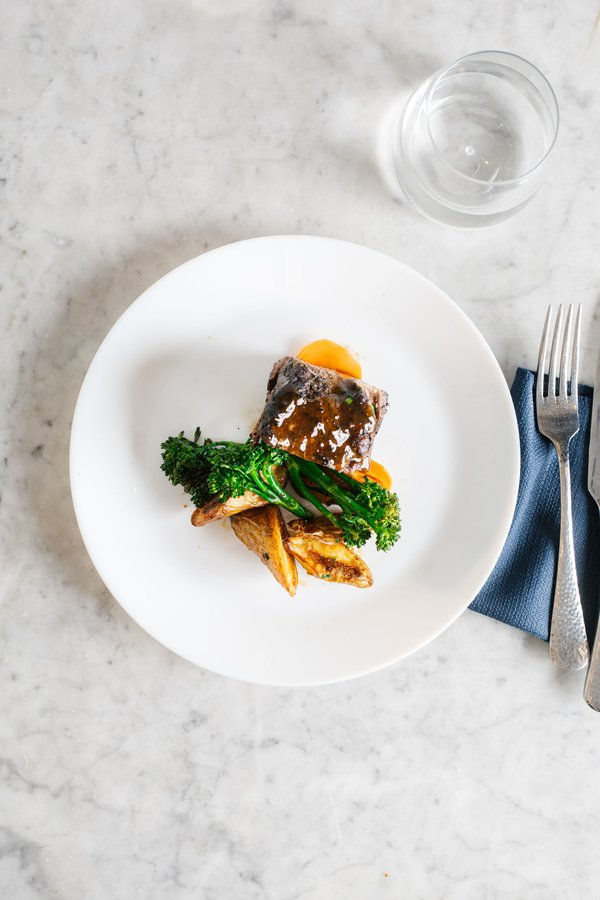
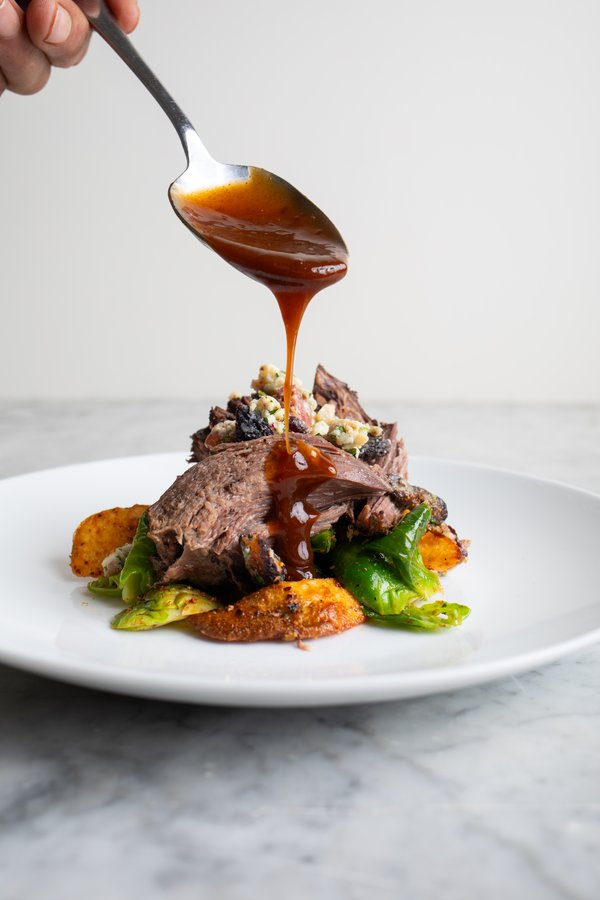
pics

diff --git a/seo-to-csv-converter.html b/seo-to-csv-converter.html
@@ -494,7 +494,63 @@ const MENU_PHOTOS = [
   {slug:"slow-roast-beef-sandwich",name:"Slow Roast Beef Sandwich",aliases:["Slow Roast Beef","Roast Beef Sandwich","Roast Beef"]},
   {slug:"sandwich-buffet",name:"Sandwich Buffet",aliases:[],fallback:"sandwich"},
   {slug:"turkey-provolone-sandwich",name:"Turkey & Provolone Sandwich",aliases:["Turkey & Provolone","Turkey Provolone","Turkey Sandwich"]},
-  {slug:"berries-and-greens-salad",name:"Berries and Greens Salad",aliases:["Berries and Greens","Berries & Greens Salad"]}
+  {slug:"berries-and-greens-salad",name:"Berries and Greens Salad",aliases:["Berries and Greens","Berries & Greens Salad"]},
+  {slug:"beignets",name:"Beignets",aliases:["Beignets","PB&J Beignet","Peanut Butter & Jelly Beignet","Beignet"]},
+  {slug:"seasonal-crostini-display",name:"Seasonal Crostini Display",aliases:["Seasonal Crostini Display","Crostini Display","Crostini"]},
+  {slug:"caviar",name:"Caviar",aliases:["Caviar","Hackleback Caviar"]},
+  {slug:"cuban-cigars",name:"Cuban Cigars",aliases:["Cuban Cigars","Cuban Cigar","Cigars"]},
+  {slug:"grain-bowl",name:"Build-Your-Own Bowl",aliases:["Build-Your-Own Bowl","Build Your Own Salad Bowl","Grain Bowl","Salad Bowl"]},
+  {slug:"espresso-martini",name:"Espresso Martini",aliases:["Espresso Martini"]},
+  {slug:"jerk-chicken",name:"Grilled Caribbean Jerk Chicken",aliases:["Grilled Caribbean Jerk Chicken","Caribbean Jerk Chicken","Jerk Chicken"]},
+  {slug:"champagne-chicken",name:"Pan Roasted Frenched Chicken Champagne",aliases:["Pan Roasted Frenched Chicken Champagne","Frenched Chicken Champagne","Champagne Chicken"]},
+  {slug:"rice-crispy-station",name:"Rice Crispy Bar Station",aliases:["Rice Crispy Bar Station","Rice Crispy Station","Rice Crispy Treat"]},
+  {slug:"smores-station",name:"S'mores Station",aliases:["S'mores Station","Smores Station","S'mores","Smores"]},
+  {slug:"pan-roasted-atlantic-salmon",name:"Pan Roasted Atlantic Salmon",aliases:["Pan Roasted Atlantic Salmon","Pan Roasted Salmon","Atlantic Salmon"]},
+  {slug:"petite-lamb-chop",name:"Petite Lamb Chop",aliases:["Petite Lamb Chop","Lamb Chop"]},
+  {slug:"penne-alla-vodka",name:"Penne Alla Vodka",aliases:["Penne Alla Vodka","Penne Vodka","Penne"]},
+  {slug:"turkey-reuben",name:"Roast Turkey Reuben",aliases:["Roast Turkey Reuben","Turkey Reuben","Reuben"]},
+  {slug:"seared-scallops",name:"Seared Jumbo Scallops",aliases:["Seared Jumbo Scallops","Jumbo Scallops","Scallop"]},
+  {slug:"tomahawk",name:"Tomahawk",aliases:["Tomahawk","Tomahawk Steak"]},
+  {slug:"short-rib-lettuce-wrap",name:"Short Rib Lettuce Wrap",aliases:["Short Rib Lettuce Wrap","Lettuce Wrap"]},
+  {slug:"tofu-scallop",name:"Tofu Scallops",aliases:["Tofu Scallops","Tofu Scallop","Tofu"]},
+  {slug:"vintage-revival",name:"Vintage Revival",aliases:["Vintage Revival"]},
+  {slug:"mahi-tostada",name:"Mahi Tostada",aliases:["Mahi Tostada","Mahi"]},
+  {slug:"potato-crusted-grouper",name:"Potato Crusted Grouper",aliases:["Potato Crusted Grouper","Baked & Flaked Grouper","Grouper"]},
+  {slug:"roasted-lamb",name:"Roasted Lamb",aliases:["Roasted Lamb","Lamb Rack","Rack of Lamb"]},
+  {slug:"shrimp-risotto",name:"Shrimp Risotto",aliases:["Shrimp Risotto"]},
+  {slug:"shaved-bresaola-toast",name:"Shaved Bresaola Toast",aliases:["Shaved Bresaola Toast","Bresaola Toast","Bresaola"]},
+  {slug:"salmon-nicoise",name:"Salmon Nicoise Salad",aliases:["Salmon Nicoise Salad","Salmon Nicoise","Nicoise"]},
+  {slug:"quinoa-walnut-porridge",name:"Quinoa Walnut Porridge",aliases:["Quinoa Walnut Porridge","Overnight Oats","Porridge"]},
+  {slug:"vegan-scramble",name:"Vegan Scramble",aliases:["Vegan Scramble","Tofu Scrambler","Tofu Scramble"]},
+  {slug:"pea-risotto",name:"Pea Risotto",aliases:["Pea Risotto","Petite Pea Risotto","Sweet Pea Risotto","Pea Puree"]},
+  {slug:"pie-in-a-jar-smores",name:"Pie in a Jar S'mores",aliases:["Pie in a Jar Smores","S'mores Pie"]},
+  {slug:"signature-soup-collection",name:"Signature Soup Collection",aliases:["Signature Soup Collection","Signature Creamy Basil","Creamy Basil Soup","Soup Collection","Tomato Basil Soup"]},
+  {slug:"crab-cakes",name:"Crab Cakes",aliases:["Crab Cakes","Crab Cake","Jumbo Lump Crab Cake"]},
+  {slug:"beef-wellington",name:"Beef Wellington",aliases:["Beef Wellington","Wellington"]},
+  {slug:"cauliflower-steak",name:"Cauliflower Steak",aliases:["Cauliflower Steak","Roasted Cauliflower Steak"]},
+  {slug:"cobb-salad",name:"Cobb Salad",aliases:["Cobb Salad"]},
+  {slug:"roasted-squash-salad",name:"Roasted Squash Salad",aliases:["Roasted Squash Salad","Squash Salad","Autumn Squash Salad"]},
+  {slug:"tomato-watermelon-feta-salad",name:"Tomato, Watermelon & Feta Salad",aliases:["Tomato, Watermelon & Feta Salad","Watermelon Feta Salad","Watermelon & Feta"]},
+  {slug:"duck-flatbread",name:"Duck Flatbread",aliases:["Duck Flatbread","Duck Confit Flatbread"]},
+  {slug:"herb-de-provence-chicken",name:"Herb de Provence Chicken",aliases:["Herb de Provence Chicken","Herbs de Provence Chicken","Provence Chicken"]},
+  {slug:"tuna-crudo",name:"Tuna Crudo",aliases:["Tuna Crudo"]},
+  {slug:"hearts-of-palm-cake",name:"Hearts of Palm Cake",aliases:["Hearts of Palm Cake","Hearts of Palm"]},
+  {slug:"sushi-wall",name:"Sushi Wall",aliases:["Sushi Wall","Sushi Display","Sushi Station"]},
+  {slug:"short-rib-eggs-benedict",name:"Short Rib Eggs Benedict",aliases:["Short Rib Eggs Benedict","Eggs Benedict","Benedict"]},
+  {slug:"omelette",name:"Omelette Station",aliases:["Omelette","Omelette Station","Made to Order Omelette"]},
+  {slug:"acai-bowl",name:"Acai Bowl",aliases:["Acai Bowl","Açaí Bowl","Acai"]},
+  {slug:"gelato-cart",name:"Gelato Cart",aliases:["Gelato Cart","Gelato","Gelato Station"]},
+  {slug:"mini-cupcakes",name:"Mini Cupcakes",aliases:["Mini Cupcakes","Cupcakes"]},
+  {slug:"apple-cranberry-tart",name:"Apple Cranberry Tart",aliases:["Apple Cranberry Tart","Cranberry Tart"]},
+  {slug:"affogato",name:"Affogato",aliases:["Affogato"]},
+  {slug:"walking-cannoli",name:"Walking Cannoli",aliases:["Walking Cannoli","Cannoli"]},
+  {slug:"paloma-cocktail",name:"Paloma",aliases:["Paloma"]},
+  {slug:"orange-twist-cocktail",name:"Orange Twist Cocktail",aliases:["Orange Twist Cocktail","Orange Twist"]},
+  {slug:"blackberry-mojito",name:"Blackberry Mojito",aliases:["Blackberry Mojito"]},
+  {slug:"jalapeno-passion-margarita",name:"Jalapeno Passion Fruit Margarita",aliases:["Jalapeño Passion Fruit Margarita","Jalapeno Passion Fruit Margarita","Passion Fruit Margarita"]},
+  {slug:"pacific-rim-cocktail",name:"Pacific Rim",aliases:["Pacific Rim"]},
+  {slug:"moscow-mule",name:"Moscow Mule",aliases:["Moscow Mule"]},
+  {slug:"roast-salmon-citrus",name:"Roast Salmon with Citrus",aliases:["Roast Salmon with Citrus","Citrus Salmon","Coconut-Chile Salmon"]}
 ];
 const _menuFb = role => (MENU_PHOTOS.find(p=>p.fallback===role)||{}).slug || null;
 function menuNorm(s){ return " "+String(s||"").toLowerCase().replace(/[^a-z0-9]+/g," ").replace(/\s+/g," ").trim()+" "; }
